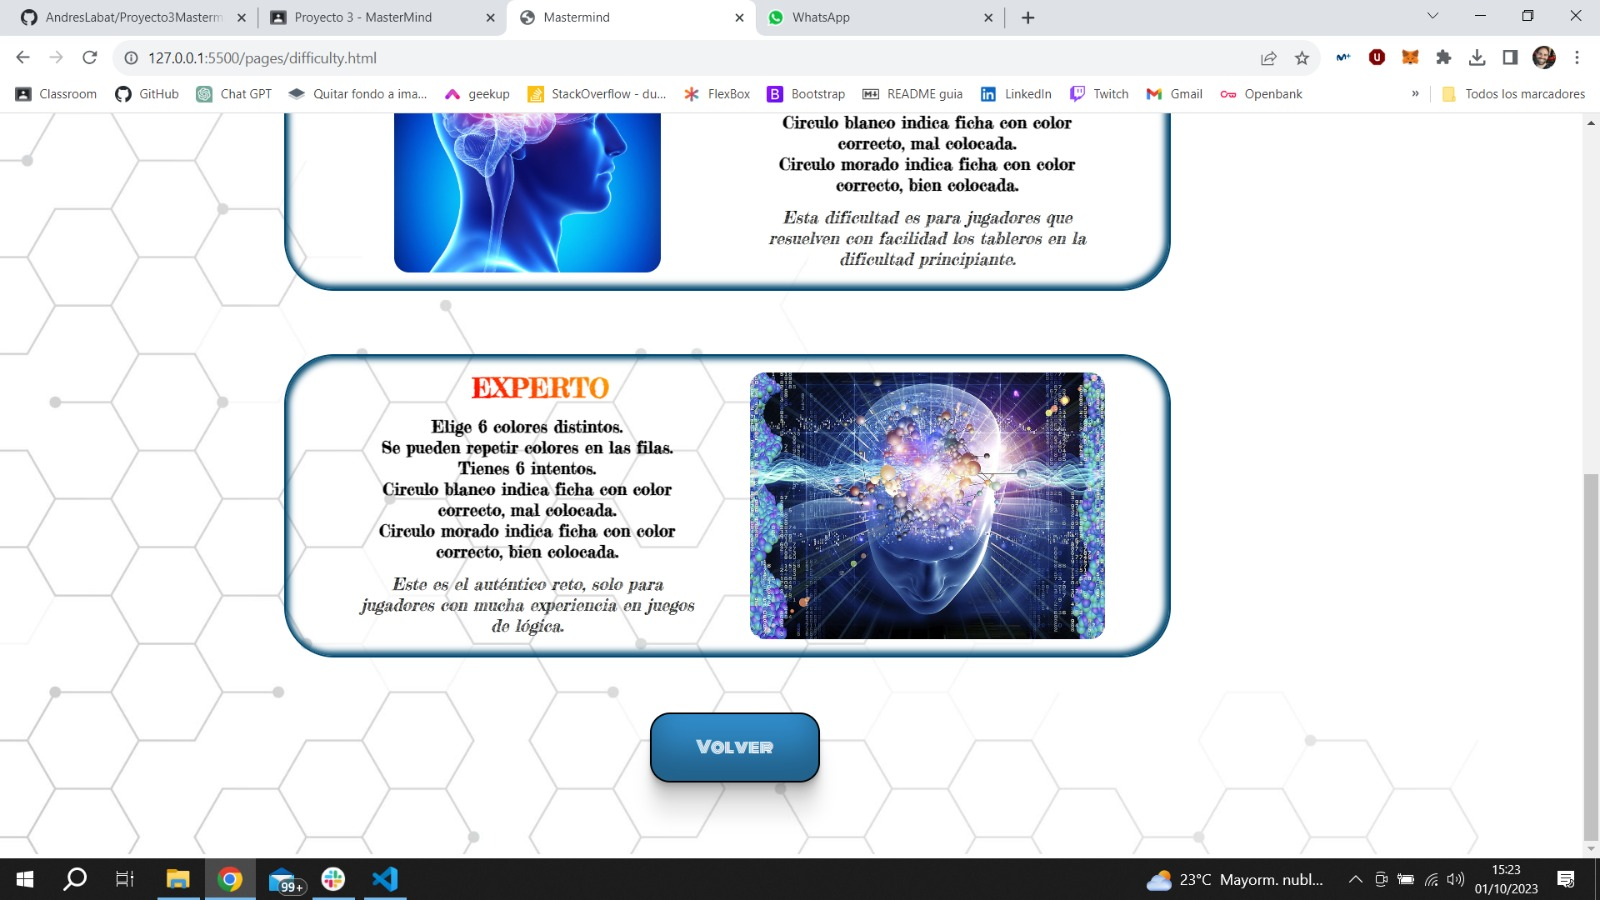
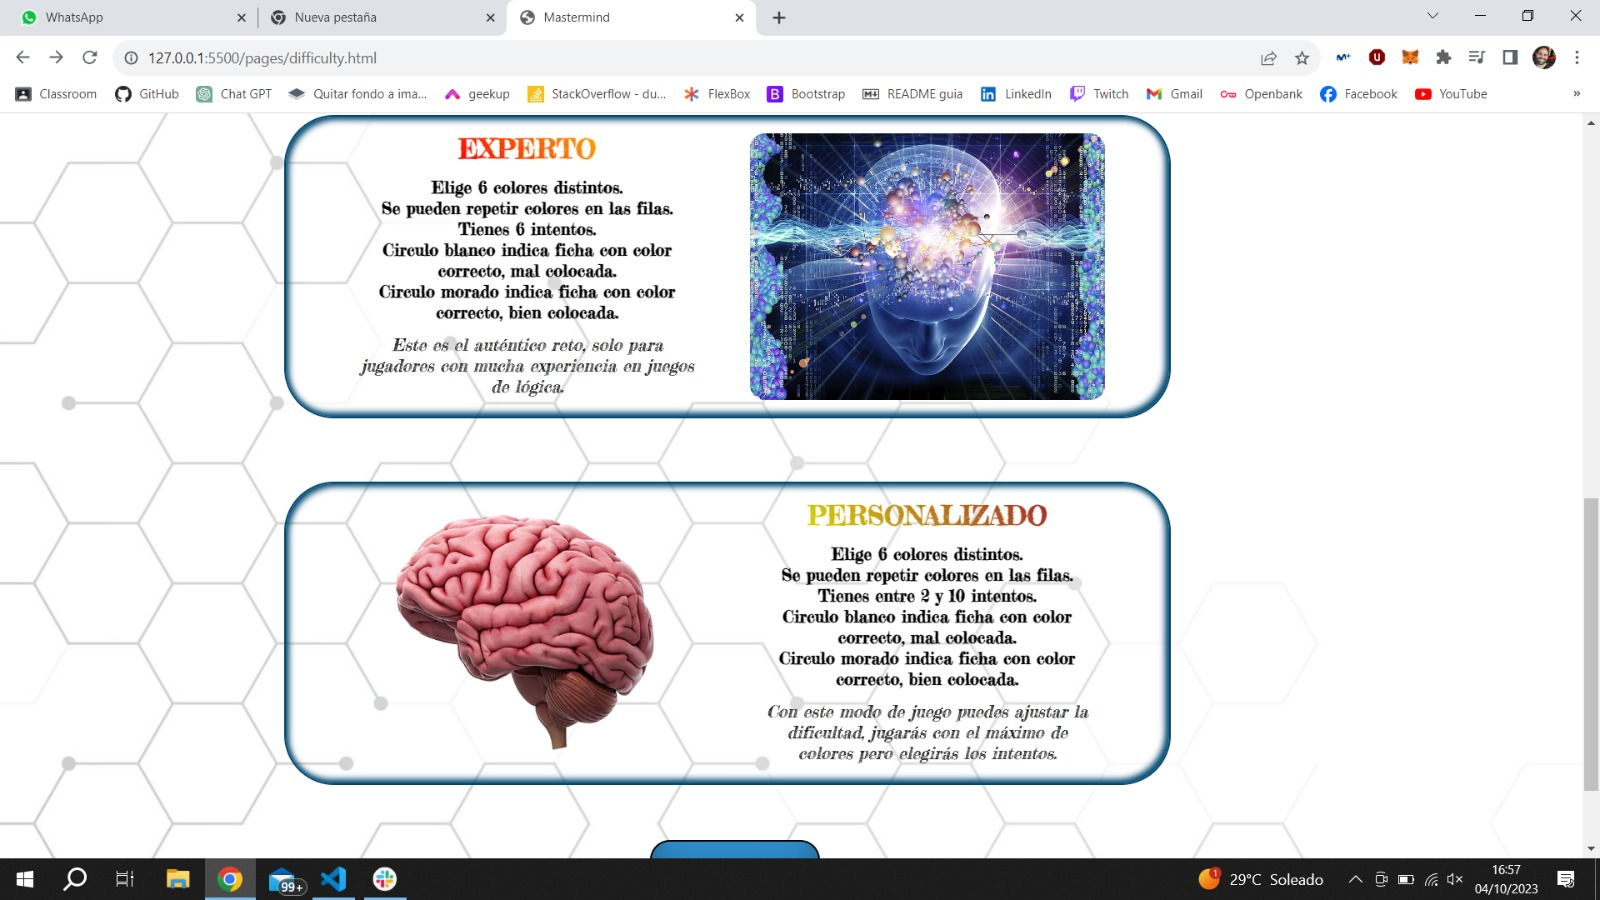
docs: added the explanation of the new custom difficulty, which is dynamically generated

diff --git a/js/main.js b/js/main.js
@@ -28,6 +28,7 @@ color4.addEventListener("input", () => {
     muestraColor4.style.backgroundColor = color4.value;
     localStorage.setItem("color4", color4.value);
 })
+
 botonEasy.addEventListener("click", () => {
     if (nombreJugador.value !== "" &&
         (color1.value !== color2.value &&

diff --git a/README.md b/README.md
@@ -67,7 +67,7 @@ El proyecto **Juego MasterMind** consta de los siguientes archivos:
       <img src="img/imagenes-README/difficulty-2.jpeg" style="max-width: 100%;" width="500">
    </div>    
    <div align="center">
-      <em><b>Hasta expertos en juegos de lógica</b></em>
+      <em><b>Hasta expertos en juegos de lógica y juego personalizado</b></em>
    </div>   
 </p>
 
@@ -100,14 +100,25 @@ El proyecto **Juego MasterMind** consta de los siguientes archivos:
    </div>   
 </p>
 
-6. **🎲game-easy.html, game-medium.html, game-hard.html🎲**: la vista total de la página estará centrada en el tablero en el que se desarrolla la partida, teniendo funcionalidades extra en la parte derecha para poder navegar por los menús, consultar las instrucciones o rendirse.
+6. **🟪colors-custom.html🟪**: tendremos un total de 6 colores a elegir pero la cantidad de intentos dependerá de la elección del jugador, es un tablero dinámico.
+
+<p>
+   <div align="center">
+      <img src="img/imagenes-README/colors-custom.jpeg" style="max-width: 100%;" width="500">
+   </div>    
+   <div align="center">
+      <em><b>En principiante son 4 colores</b></em>
+   </div>   
+</p>
+
+7. **🎲game-easy.html, game-medium.html, game-hard.html🎲**: la vista total de la página estará centrada en el tablero en el que se desarrolla la partida, teniendo funcionalidades extra en la parte derecha para poder navegar por los menús, consultar las instrucciones o rendirse.
 
 <p>
    <div align="center">
       <img src="img/imagenes-README/game-easy.jpeg" style="max-width: 100%;" width="500">
    </div>    
    <div align="center">
-      <em><b>En principiante tienes 10 oportunidades y 4 colores</b></em>
+      <em><b>En principiante el jugador tiene 10 oportunidades y 4 colores</b></em>
    </div>   
 </p>
 
@@ -116,7 +127,7 @@ El proyecto **Juego MasterMind** consta de los siguientes archivos:
       <img src="img/imagenes-README/game-medium.jpeg" style="max-width: 100%;" width="500">
    </div>    
    <div align="center">
-      <em><b>En experimentado tienes 8 oportunidades y 5 colores</b></em>
+      <em><b>En experimentado el jugador tiene 8 oportunidades y 5 colores</b></em>
    </div>   
 </p>
 
@@ -125,11 +136,22 @@ El proyecto **Juego MasterMind** consta de los siguientes archivos:
       <img src="img/imagenes-README/game-hard.jpeg" style="max-width: 100%;" width="500">
    </div>    
    <div align="center">
-      <em><b>En experto tienes 6 oportunidades y 6 colores</b></em>
+      <em><b>En experto el jugador tiene 6 oportunidades y 6 colores</b></em>
    </div>   
 </p>
 
-7. **🤑winner.html🤑**: esta pantalla solo la verás en el caso de que en cualquiera de las dificultades soluciones con éxito el tablero.
+8. **🎲game-custom.html🎲**: en este modo de juego, dependiendo de la elección realizada en cantidad de intentos, se generará dinamicamente un tablero con ese número de filas.
+
+<p>
+   <div align="center">
+      <img src="img/imagenes-README/game-custom.jpeg" style="max-width: 100%;" width="500">
+   </div>    
+   <div align="center">
+      <em><b>Siempre tendrá 6 colores, pero el número de intentos lo determinará el jugador</b></em>
+   </div>   
+</p>
+
+9. **🤑winner.html🤑**: esta pantalla solo la verás en el caso de que en cualquiera de las dificultades soluciones con éxito el tablero.
 
 <p>
    <div align="center">
@@ -140,7 +162,7 @@ El proyecto **Juego MasterMind** consta de los siguientes archivos:
    </div>   
 </p>
 
-8. **😓losser.html😓**: a esta pantalla se puede acceder en cualquiera de las dificultades si te rindes o si se terminan los intentos y no has llegado a resolver el tablero.
+10. **😓losser.html😓**: a esta pantalla se puede acceder en cualquiera de las dificultades si te rindes o si se terminan los intentos y no has llegado a resolver el tablero.
 
 <p>
    <div align="center">
@@ -151,17 +173,19 @@ El proyecto **Juego MasterMind** consta de los siguientes archivos:
    </div>   
 </p>
 
-9. **🎨styles.css🎨**: Archivo CSS que proporciona estilos y diseño a todas las páginas.
+11. **🎨styles.css🎨**: Archivo CSS que proporciona estilos y diseño a todas las páginas.
 
-10. **👀main.js, color-medium, color-hard👀**: son los archivos de JavaScript encargados de recoger los valores del nombre del jugador y los colores seleccionados e introducirlos en el local storage y, por otro lado, impiden el acceso a la partida si no se ha escrito dicho nombre y seleccionado todos los colores de forma que sean distintos entre ellos.
+12. **👀main.js, color-medium, color-hard👀**: son los archivos de JavaScript encargados de recoger los valores del nombre del jugador y los colores seleccionados e introducirlos en el local storage y, por otro lado, impiden el acceso a la partida si no se ha escrito dicho nombre y seleccionado todos los colores de forma que sean distintos entre ellos.
 
-11. **💸winner-losser.js💸**: recoge los valores del nombre del jugador y de la combinación ganadora y los muestra por pantalla en winner.html y en losser.html.
+13. **💸winner-losser.js💸**: recoge los valores del nombre del jugador y de la combinación ganadora y los muestra por pantalla en winner.html y en losser.html.
 
-12. **👾game-easy.js👾**: se encarga de toda la lógica necesaria para el correcto funcionamiento del juego en la dificultad principiante y guarda el resultado de la combinación ganadora en el local storage.
+14. **👾game-easy.js👾**: se encarga de toda la lógica necesaria para el correcto funcionamiento del juego en la dificultad principiante y guarda el resultado de la combinación ganadora en el local storage.
 
-13. **👾game-medium.js👾**: se encarga de toda la lógica necesaria para el correcto funcionamiento del juego en la dificultad experimentadoy guarda el resultado de la combinación ganadora en el local storage.
+15. **👾game-medium.js👾**: se encarga de toda la lógica necesaria para el correcto funcionamiento del juego en la dificultad experimentado y guarda el resultado de la combinación ganadora en el local storage.
 
-14. **👾game-hard.js👾**: se encarga de toda la lógica necesaria para el correcto funcionamiento del juego en la dificultad expertoy guarda el resultado de la combinación ganadora en el local storage.
+16. **👾game-hard.js👾**: se encarga de toda la lógica necesaria para el correcto funcionamiento del juego en la dificultad experto y guarda el resultado de la combinación ganadora en el local storage.
+
+17. **👾game-hard.js👾**: se encarga de toda la lógica necesaria para el correcto funcionamiento del juego en la dificultad personalizado y genera el tablero dinámicamente en base a la elección de intentos que haya realizado el jugador, por último guarda el resultado de la combinación ganadora en el local storage.
 
 ## 🔧 Tecnologías Utilizadas
 
